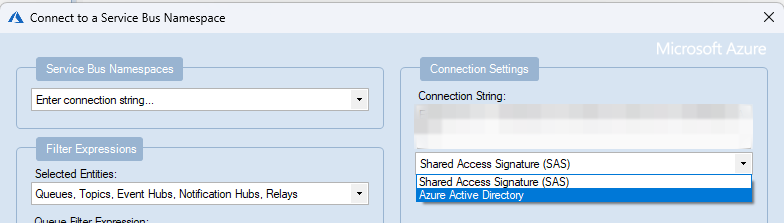
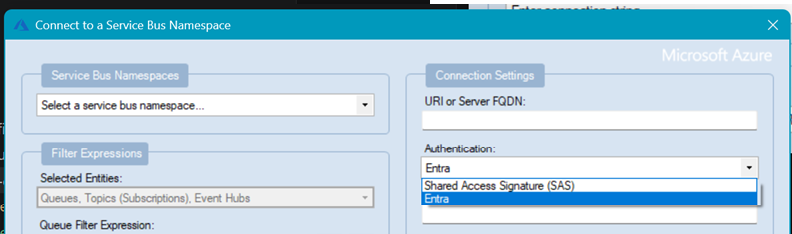
Updated Entra documentation

diff --git a/README.md b/README.md
@@ -82,16 +82,18 @@ Service Bus Explorer supports interactive browser sign-in for Azure Service Bus 
 
 1. Open the regular Service Bus connection dialog.
 2. Select `Select a service bus namespace...` for a manual connection, or edit an existing saved connection.
-3. Change `Authentication` to `Azure Active Directory`.
+3. Change `Authentication` to `Entra`.
 4. Enter the namespace endpoint as either `sb://<namespace>.servicebus.windows.net/` or `<namespace>.servicebus.windows.net`.
-5. Optionally enter `Tenant ID` and `Entity Path`. If `Tenant ID` is left blank, Service Bus Explorer uses the `organizations` endpoint, so the sign-in flow accepts work or school accounts only.
+5. Optionally enter `Tenant ID` and `Entity Path`. If `Tenant ID` is left blank, Service Bus Explorer uses the `organizations` endpoint. In that case the sign-in flow accepts work or school accounts only. To sign in using a personal Microsoft account enter the target tenant ID.  
 6. Click `OK` and complete the browser sign-in flow.
 
 > **Note**
 >
-> The `File -> Connect using Entra (Event grid)` menu entry is for Event Grid, not Azure Service Bus. For Service Bus, use the normal connection dialog and switch the `Authentication` selector to `Azure Active Directory`.
+> The `File -> Connect using Entra (Event grid)` menu entry is for Event Grid, not Azure Service Bus. For Service Bus, use the normal connection dialog and switch the `Authentication` selector to `Entra`.
 >
-> Personal Microsoft accounts are not supported for Service Bus authentication unless they have been invited into a Microsoft Entra tenant that has access to the namespace.
+
+### Cached credentials
+The logged in user credentials is cached. In some scenarios it may be neccessary to log out from Entra to switch user. Use the menu item Log out from Entra for that. 
 
 ### Screenshots
 
@@ -103,13 +105,17 @@ Open the normal connection dialog:
 
 ![Service Bus connect dialog](./media/entra/entra-connect-dialog.png)
 
-Switch `Authentication` to `Azure Active Directory`:
+Switch `Authentication` to `Entra`:
 
-![Authentication dropdown with Azure Active Directory option](./media/entra/entra-auth-dropdown.png)
+![Authentication dropdown with Entra option](./media/entra/entra-auth-dropdown.png)
 
-Enter the namespace endpoint and optional Entra metadata:
+Enter the namespace endpoint and optionally select an Entra Tenant ID from the list. You may also enter a Tenant ID that is not in the list. If you save the connection it will store the Tenant ID with the connection:
 
-![Azure Active Directory connection fields](./media/entra/entra-aad-fields.png)
+![Entra connection fields](./media/entra/entra-connect-tenant-id-list.png)
+
+The list of Entra Tenant IDs is managed in the `Options | Authentication` dialog:
+
+![Entra Tenant ID list](./media/entra/entra-options-tenant-id-list.png)
 
 After sign-in, the namespace can be browsed without storing SAS keys locally:
 
@@ -132,8 +138,8 @@ Endpoint=sb://<namespace>.servicebus.windows.net/;AuthMode=AAD
 ### Current scope
 
 - Interactive browser sign-in only
-- Azure Active Directory mode currently loads Service Bus queues, topics, and subscriptions only
-- Event Hubs, Notification Hubs, and Relay are not loaded when Azure Active Directory authentication is selected
+- Entra mode currently loads Service Bus queues, topics, and subscriptions only
+- Event Hubs, Notification Hubs, and Relay are not loaded when Entra authentication is selected
 - Local persistence stores metadata only, not passwords or SAS keys
 - Managed identity, Azure CLI auth and service principal auth are not included in this feature
 
@@ -150,7 +156,7 @@ Here are some guidelines concerning contributions:
 
 ## Development Environment
 
-Visual Studio 2022 17.8.0 or later is required to build the solution. 
+Visual Studio 2026 18.8.0 or later is required to build the solution. 
 
 When editing UI elements Visual Studio should run as a DPI-unaware process. For more information about this, see the [Visual Studio documentation](https://docs.microsoft.com/en-us/dotnet/framework/winforms/disable-dpi-awareness-visual-studio). In Visual Studio 2022 the informational bar looks like this ![AutoscalingTurnedOff](./media/AutoscalingTurnedOff.png) when it is running as a DPI-unaware process.
 
